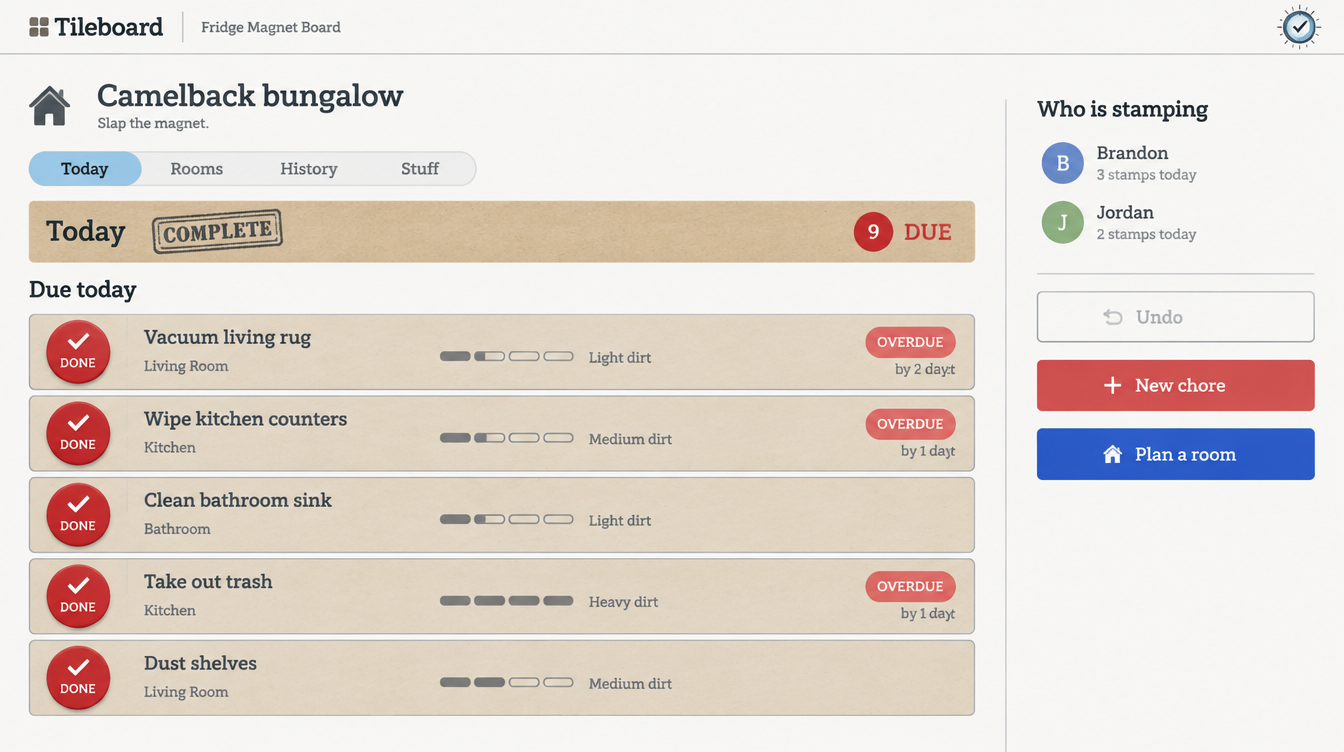
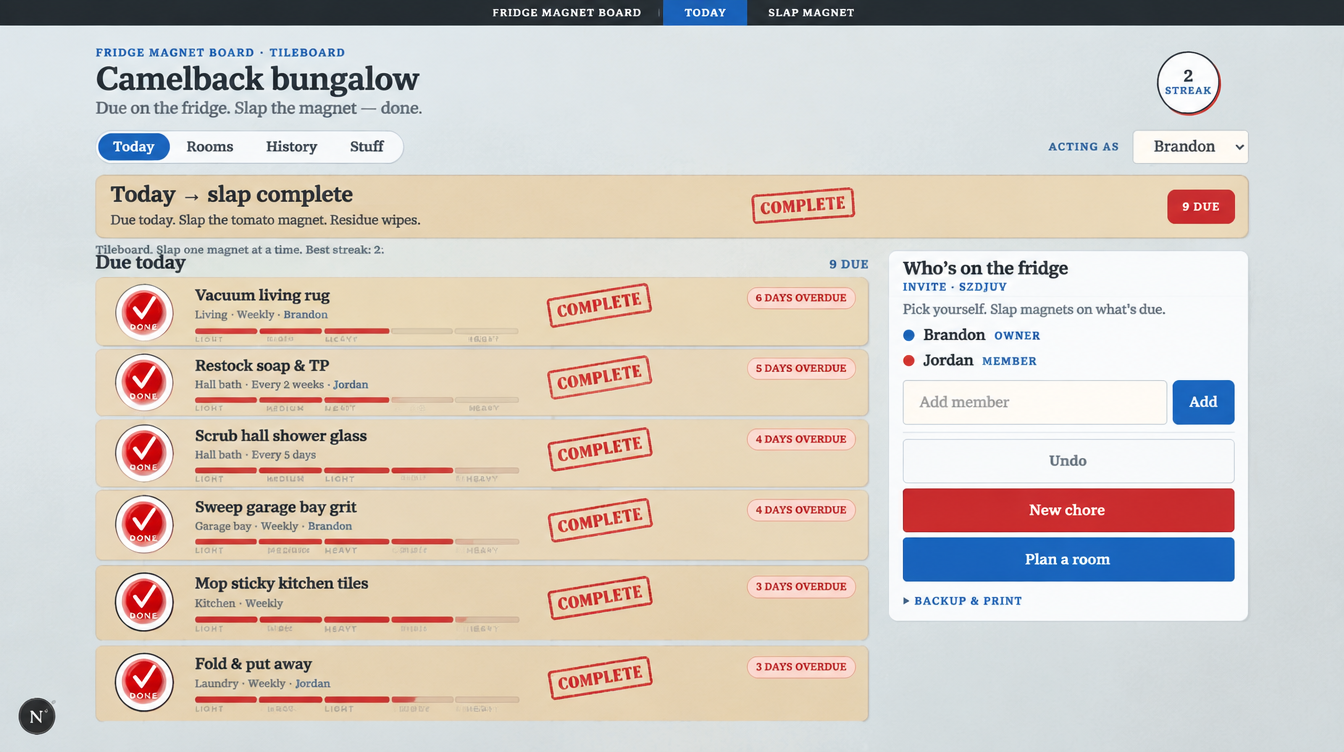
r8: contrast

diff --git a/src/app/globals.css b/src/app/globals.css
@@ -1974,3 +1974,31 @@ body {
   line-height: 1.4 !important;
 }
 .eyebrow { font-size: 0.62rem !important; letter-spacing: 0.12em !important; }
+
+/* r8 — contrast: cobalt active tab pill (flat) + Later quieter */
+.t-tabs {
+  background: var(--chalk) !important;
+  border: 1px solid var(--rule) !important;
+}
+.t-tabs-pill {
+  background: #e8eef6 !important;
+  border: 1px solid #b8c8dc !important;
+  box-shadow: none !important;
+}
+.t-tab[aria-selected="true"] {
+  color: var(--sea-deep) !important;
+  font-weight: 700 !important;
+}
+.later-card {
+  background: #f5f2ed !important;
+  border-color: var(--rule) !important;
+  opacity: 0.86 !important;
+}
+.later-card .later-title { font-weight: 650 !important; color: var(--ink-soft) !important; }
+.field {
+  background: #fffcf7 !important;
+  border-color: #aeb6bf !important;
+}
+.today-aside {
+  border-color: #c5ccd4 !important;
+}
